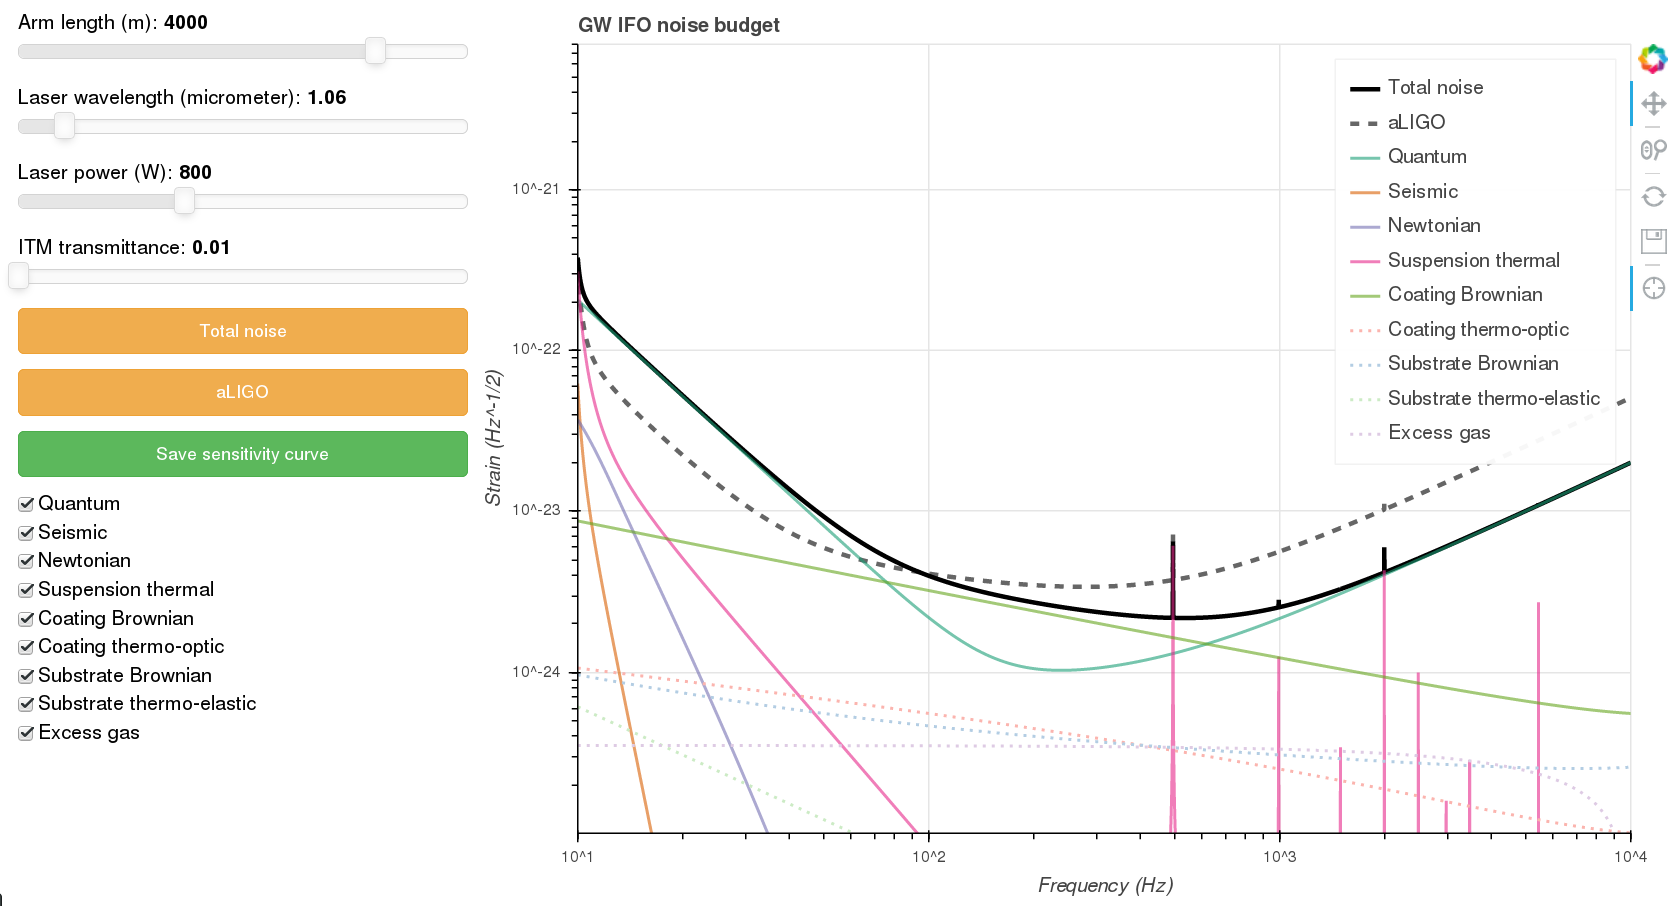
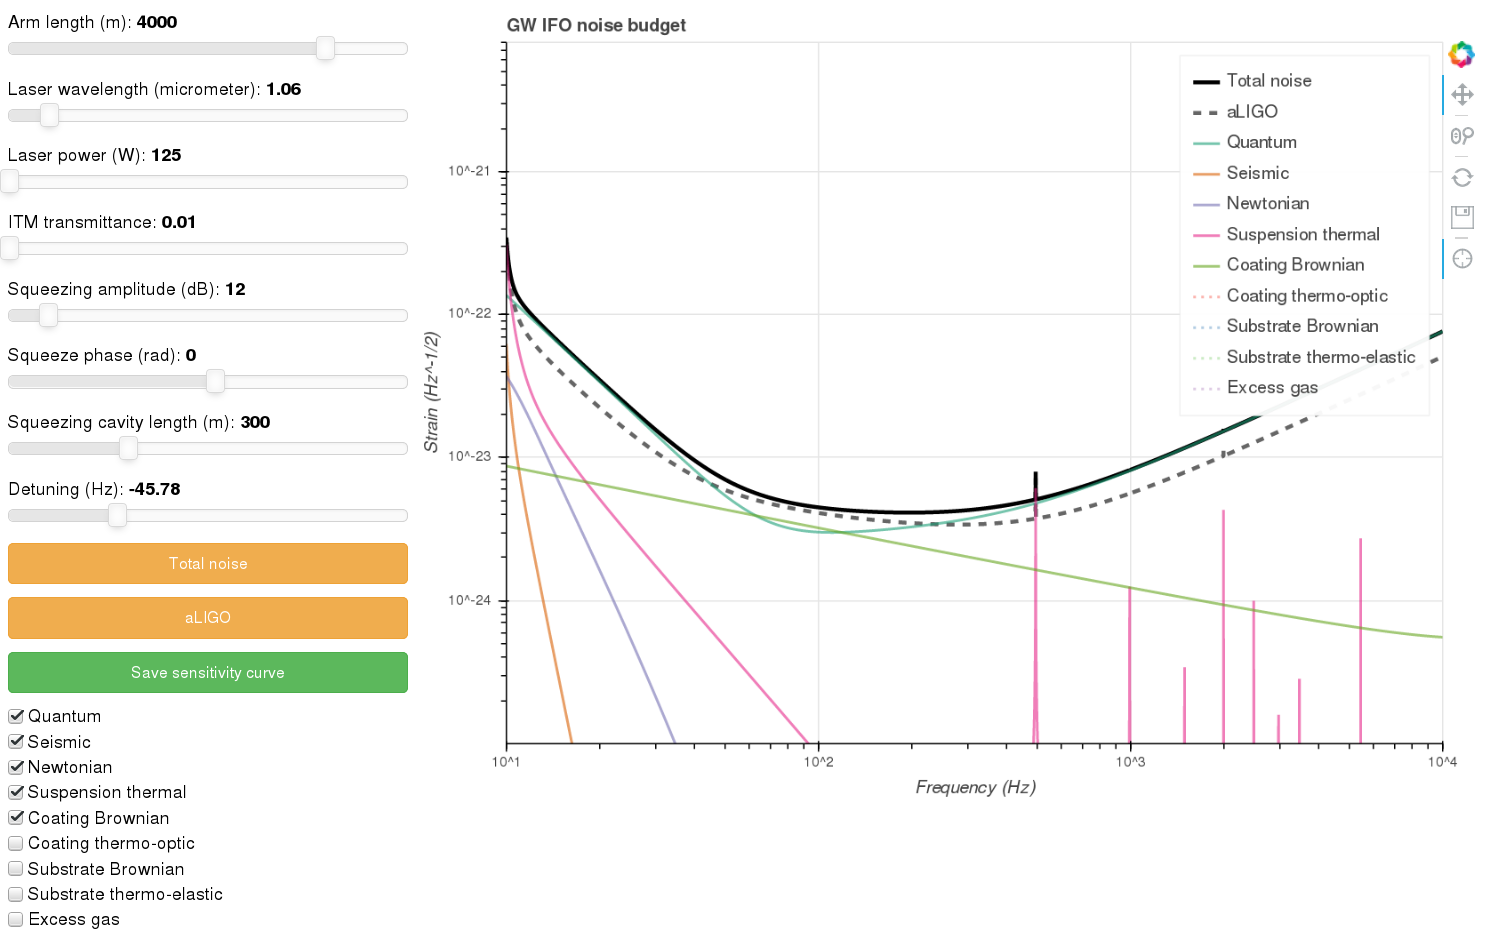
Added SQZ to the simplified tool as well

diff --git a/SC_simple.py b/SC_simple.py
@@ -10,6 +10,32 @@ import argparse
 import os
 import glob
 
+sqztext = "\n\
+## Squeezer Parameters------------------------------------------------------\n\
+# Define the squeezing you want:\n\
+#   None: ignore the squeezer settings\n\
+#   Freq Independent: nothing special (no filter cavities)\n\
+#   Freq Dependent = applies the specified filter cavities\n\
+#   Optimal = find the best squeeze angle, assuming no output filtering\n\
+#   OptimalOptimal = optimal squeeze angle, assuming optimal readout phase\n\
+Squeezer:\n\
+  Type: 'Freq Dependent'\n\
+  AmplitudedB: 10                 # SQZ amplitude [dB]\n\
+  InjectionLoss: 0.05             # power loss to sqz\n\
+  SQZAngle: 0.000000              # SQZ phase [radians]\n\
+  LOAngleRMS: 30e-3               # quadrature noise [radians]\n\
+\n\
+  # Parameters for frequency dependent squeezing\n\
+  FilterCavity:\n\
+    L: 300                        # cavity length\n\
+    Te: 1e-6                      # end mirror transmission\n\
+    Lrt: 60e-6                    # round-trip loss in the cavity\n\
+    Rot: 0.000000                 # phase rotation after cavity\n\
+    fdetune: -45.000000           # detuning [Hz]\n\
+    Ti: 1.2e-3                    # input mirror transmission [Power]"
+    
+
+
 
 parser = argparse.ArgumentParser(description='GW detector sensitivity curve generator')
 parser.add_argument('-g','--pygwinc', type = os.path.abspath,
@@ -28,7 +54,19 @@ parser.add_argument('-p','--power', type = int,
 parser.add_argument('-t','--transmittance', type = float,
                     help='ITM transmittance, default value: 0.014',
                     default=0.014)
-                    
+parser.add_argument('--sa', type = int,
+                    help='squeezing amplitude [dB], default value: 10',
+                    default=10)
+parser.add_argument('--sp', type = float,
+                    help='squeezing phase [rad], default value: 0',
+                    default=0.0)
+parser.add_argument('--sl', type = int,
+                    help='squeezing cavity length [m], default value: 300',
+                    default=300)
+parser.add_argument('--sd', type = float,
+                    help='squeezer detuning [Hz], default value: -45',
+                    default=-45.0)
+                                       
 parser.add_argument('--f0', type = float,
                     help='start frequency [Hz], default value: 1',
                     default=1)
@@ -55,6 +93,11 @@ length = args.length
 wavelength = args.wavelength
 power = args.power
 trans = args.transmittance
+sqzamp = args.sa
+sqzang = args.sp
+sqzlength = args.sl
+sqzdet = args.sd
+
 f0 = args.f0
 f1 = args.f1
 numberofbins = args.numberofbins
@@ -79,11 +122,14 @@ if linlog == "log":
 if linlog == "lin":
     freq = np.linspace(f0, f1, numberofbins)
 
-# Generate the gwinc directory for the new detector
+# Generate the gwinc directory for the new detector and add the squeezer
 if not os.path.isdir('%s/gwinc/ifo/%s' % (pygwincpath, ifoname)):
     os.makedirs('%s/gwinc/ifo/%s' % (pygwincpath, ifoname))
+    os.system('cp -r %s/gwinc/ifo/aLIGO/* %s/gwinc/ifo/%s' % (pygwincpath, pygwincpath, ifoname))
+    yamlname = pygwincpath + "/gwinc/ifo/" + ifoname + "/ifo.yaml"
+    with open(yamlname, "a") as yamlfile:
+        yamlfile.write(sqztext)
 
-os.system('cp -r %s/gwinc/ifo/aLIGO/* %s/gwinc/ifo/%s' % (pygwincpath, pygwincpath, ifoname))
 os.system('sed -i "s@^class.*@class %s(nb.Budget):@" %s/gwinc/ifo/%s/__init__.py' % (ifoname, pygwincpath, ifoname))
 os.system('sed -i "s@Advanced LIGO@%s@" %s/gwinc/ifo/%s/__init__.py' % (ifoname, pygwincpath, ifoname))
 
@@ -93,8 +139,10 @@ os.system("sed -i '0,/Length/{s/Length: [0-9]*/Length: %d/}' ifo.yaml" % length)
 os.system("sed -i '0,/Wavelength/{s/Wavelength: [0-9]*\.[0-9]*/Wavelength: %f/}' ifo.yaml" % wavelength)
 os.system("sed -i '0,/Power/{s/Power: [0-9]*/Power: %d/}' ifo.yaml" % power)
 os.system("sed -i '252s/Transmittance: [0-9]\.[0-9]*/Transmittance: %f/' ifo.yaml" % trans)
-
-
+os.system("sed -i '0,/AmplitudedB/{s/AmplitudedB: [0-9]*/AmplitudedB: %d/}' ifo.yaml" % sqzamp)
+os.system("sed -i '283s/SQZAngle: [0-9]\.[0-9]*/SQZAngle: %f/' ifo.yaml" % sqzang)
+os.system("sed -i '288s/L: [0-9]*/L: %d/' ifo.yaml" % sqzlength)
+os.system("sed -i '292s/fdetune: -*[0-9]*\.[0-9]*/fdetune: %f/' ifo.yaml" % sqzdet)
 
 
 #Budget, ifo, freq_, plot_style = gwinc.load_ifo(ifoname)
@@ -107,7 +155,7 @@ traces = Budget(freq).run()
 
 # Save the spectrum
 os.chdir(outputdir)
-filename = 'sensitivity_curve_' + str(length) + '_' + str(wavelength) + '_' + str(power) + '_' + str(trans)
+filename = 'sensitivity_curve_' + str(length) + '_' + str(wavelength) + '_' + str(power) + '_' + str(trans) + '_' + str(sqzamp) + '_' + str(sqzang) + '_' + str(sqzlength) + '_' + str(sqzdet)
 with open(filename, 'a') as f:
     for i, j in zip(freq, np.sqrt(traces["Total"][0])):
         f.write('%f %e\n' % (i, j))

diff --git a/SC_interactive.py b/SC_interactive.py
@@ -38,11 +38,11 @@ traces_aL = Budget_aL(freq).run()
 #Budget, ifo, freq_, plot_style = gwinc.load_ifo('Eotvos')
 #ifo = gwinc.precompIFO(freq, ifo)
 #traces = Budget(freq, ifo=ifo).calc_trace()
-Budget = gwinc.load_budget('UjDetektor')
+Budget = gwinc.load_budget('Eotvos')
 traces = Budget(freq).run()
 
 # ifodir = "/home/dalyag/Documents/Research/GW/High-frequency/gwinc/pygwinc/gwinc/ifo/Eotvos"
-ifodir = '/home/dalyag/Documents/Research/GW/High-frequency/gwinc/pygwinc/gwinc/ifo/UjDetektor'
+ifodir = '/home/dalyag/Documents/Research/GW/High-frequency/gwinc/pygwinc/gwinc/ifo/Eotvos'
 
 x = np.logspace(1, 4, 10000)
 y_tot = np.sqrt(traces["Total"][0])
@@ -217,7 +217,7 @@ def update_data(attrname, old, new):
     #Budget, ifo, freq_, plot_style = gwinc.load_ifo('Eotvos')
     #ifo = gwinc.precompIFO(freq, ifo)
     #traces = Budget(freq, ifo=ifo).calc_trace()
-    Budget = gwinc.load_budget('UjDetektor')
+    Budget = gwinc.load_budget('Eotvos')
     traces = Budget(freq).run()
     y_tot = np.sqrt(traces["Total"][0])
     y_qua = np.sqrt(traces["QuantumVacuum"][0])

diff --git a/README.md b/README.md
@@ -8,6 +8,10 @@ The aim of this project is to provide a quick, easy and interactive tool to visu
  - `Laser wavelength`
  - `Laser power`
  - `ITM transmittance`
+ - `Squeezing amplitude`
+ - `Squeezing phase`
+ - `Squeezing cavity length`
+ - `Squeezer detuning`
 
 ## Usage
 
@@ -47,6 +51,10 @@ where NameOfYourDetector is the name you have specified during the configuration
 | `-w, --wavelength` | FLOAT | Laser wavelength | nm | 1.064 |
 | `-p, --power` | INT | Laser power | W | 125 |
 | `-t, --transmittance` | FLOAT | ITM transmittance |  | 0.014 |
+| `--sa` | INT | Squeezing amplitude | dB | 10 |
+| `--sp` | FLOAT | Squeezing phase | rad | 0.0 |
+| `--sl` | INT | Squeezing cavity length | m | 300 |
+| `--sd` | FLOAT | Squeezer detuning | Hz | -45 |
 | `--f0` | FLOAT | Start frequency | Hz | 1 |
 | `--f1` | FLOAT | End frequency | Hz | 10,000 |
 | `-n, --numberofbins` | INT | Number of frequency bins |  | 10,000 |
@@ -59,6 +67,7 @@ python SC_simple.py --pygwinc /home/dalyag/Documents/Research/GW/High-frequency/
                     --ifo MyInterferometer \
                     -l 3000 \
                     -p 500 \
+                    --sa 12 \
                     --linlog log
 ~~~~
 
